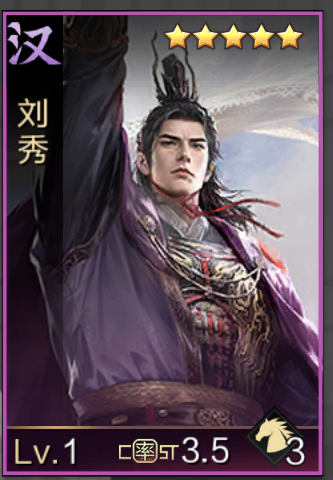
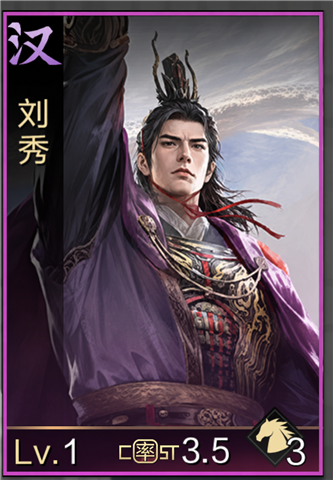
Remove rarity stars from Liu Xiu card

diff --git a/AGENTS.md b/AGENTS.md
@@ -1,0 +1,4 @@
+# Card art workflow
+
+When adding or updating a character card image, remove the five yellow rarity stars from the card face before using or publishing it. Check the final image visually while preserving the character, name, border, and other card details.
+
